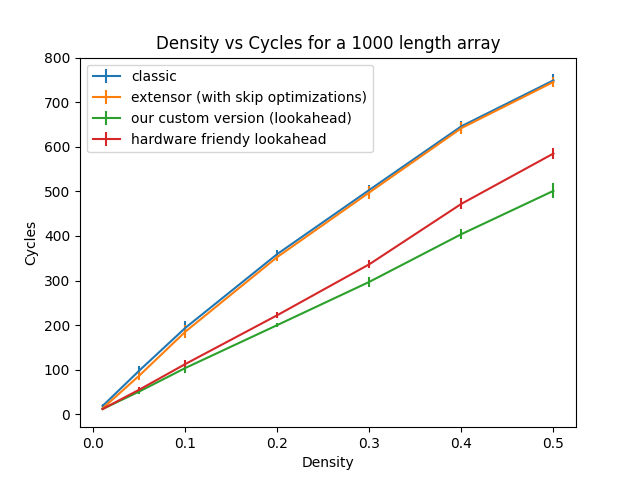
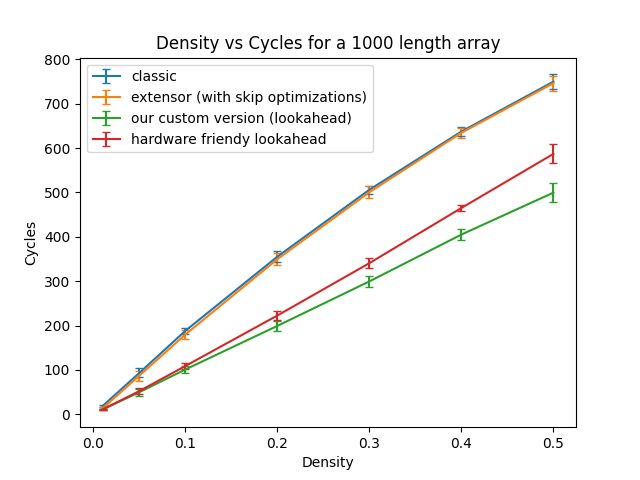
nice plots af

diff --git a/plot.py b/plot.py
@@ -28,7 +28,7 @@ for trial in range(trials):
         for i in range(4):
             results[i][idx].add(temp[i][1])
 for i in range(4):
-    plt.errorbar(densities, list(map(lambda x : x.mean(), results[i])), list(map(lambda x: x.std(), results[i])), label=collider_names[i])
+    plt.errorbar(densities, list(map(lambda x : x.mean(), results[i])), list(map(lambda x: x.std(), results[i])), label=collider_names[i], capsize=3)
 plt.xlabel('Density')
 plt.ylabel('Cycles')
 plt.title('Density vs Cycles for a 1000 length array')
@@ -56,7 +56,7 @@ for trial in range(trials):
             results[i][idx].add(temp[i][1])
 
 for i in range(4):
-    plt.errorbar(lengths, list(map(lambda x : x.mean(), results[i])), list(map(lambda x: x.std(), results[i])), label=collider_names[i])
+    plt.errorbar(lengths, list(map(lambda x : x.mean(), results[i])), list(map(lambda x: x.std(), results[i])), label=collider_names[i], capsize=5)
 plt.xlabel('Density')
 plt.ylabel('Cycles')
 plt.title('Array length vs Cycles for a 0.05 dense length array')
@@ -81,8 +81,8 @@ for trial in range(trials):
         for i in range(4):
             results[i][idx].add(temp[i][1])
 
-for i in range(4):
-    plt.errorbar(Ts, list(map(lambda x : x.mean(), results[i])), list(map(lambda x: x.std(), results[i])), label=collider_names[i])
+for i in range(1,4):
+    plt.errorbar(Ts, list(map(lambda x : x.mean(), results[i])), list(map(lambda x: x.std(), results[i])), label=collider_names[i], capsize=5)
 plt.xlabel('Buffer size')
 plt.ylabel('Cycles')
 plt.title('Buffer size vs Cycles for a 0.05 dense 1000 length array')
@@ -134,7 +134,7 @@ plt.xlabel('Skips')
 plt.ylabel('Frequency')
 plt.title('Skips for 0.05 dense 1000 length array')
 plt.legend()
-plt.savefig('plt5.png')
+plt.savefig('plt4.png')
 
 
 
